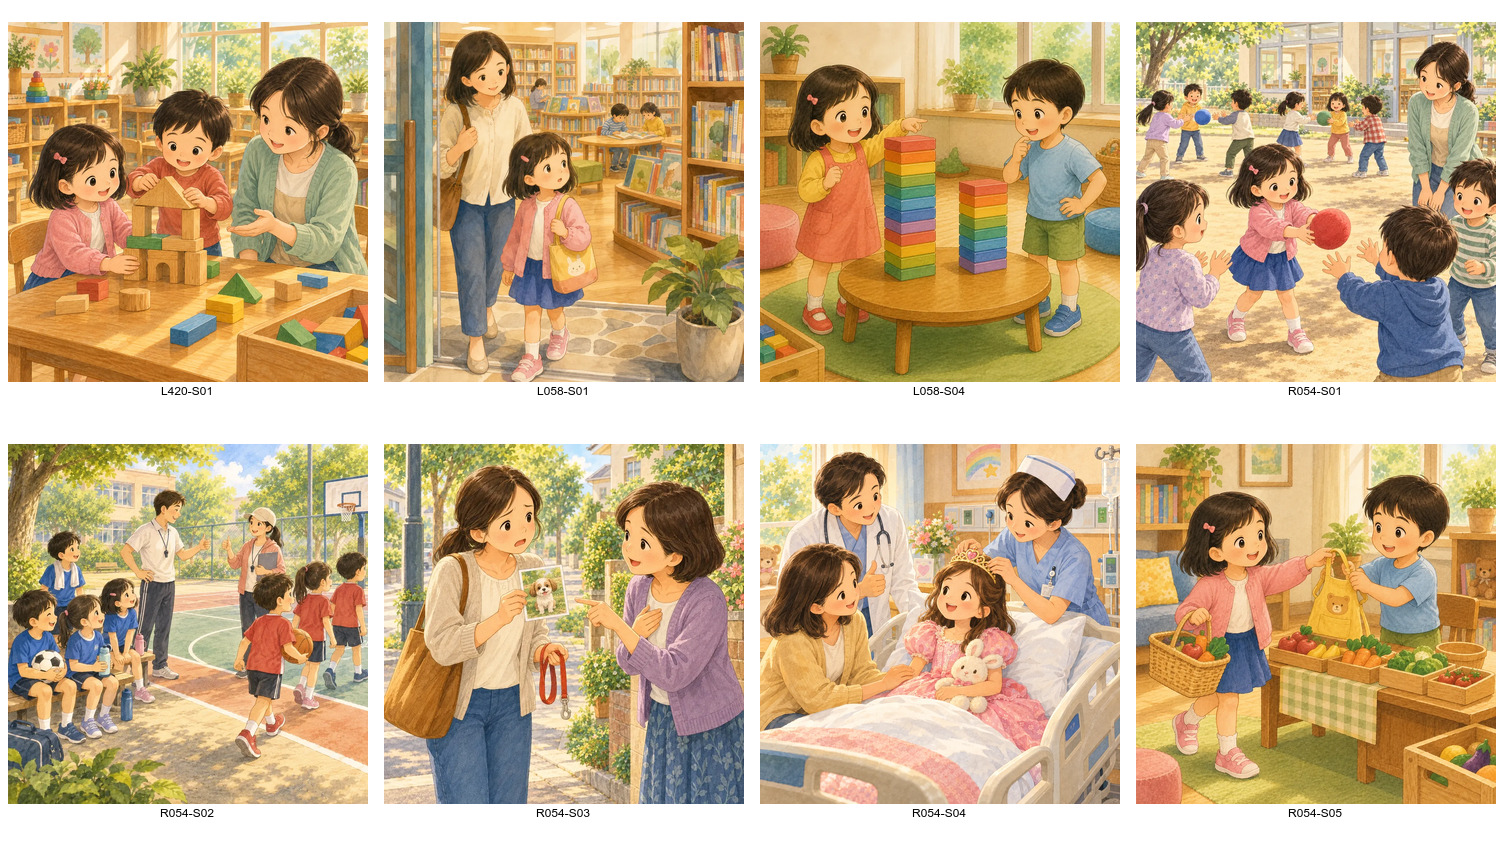
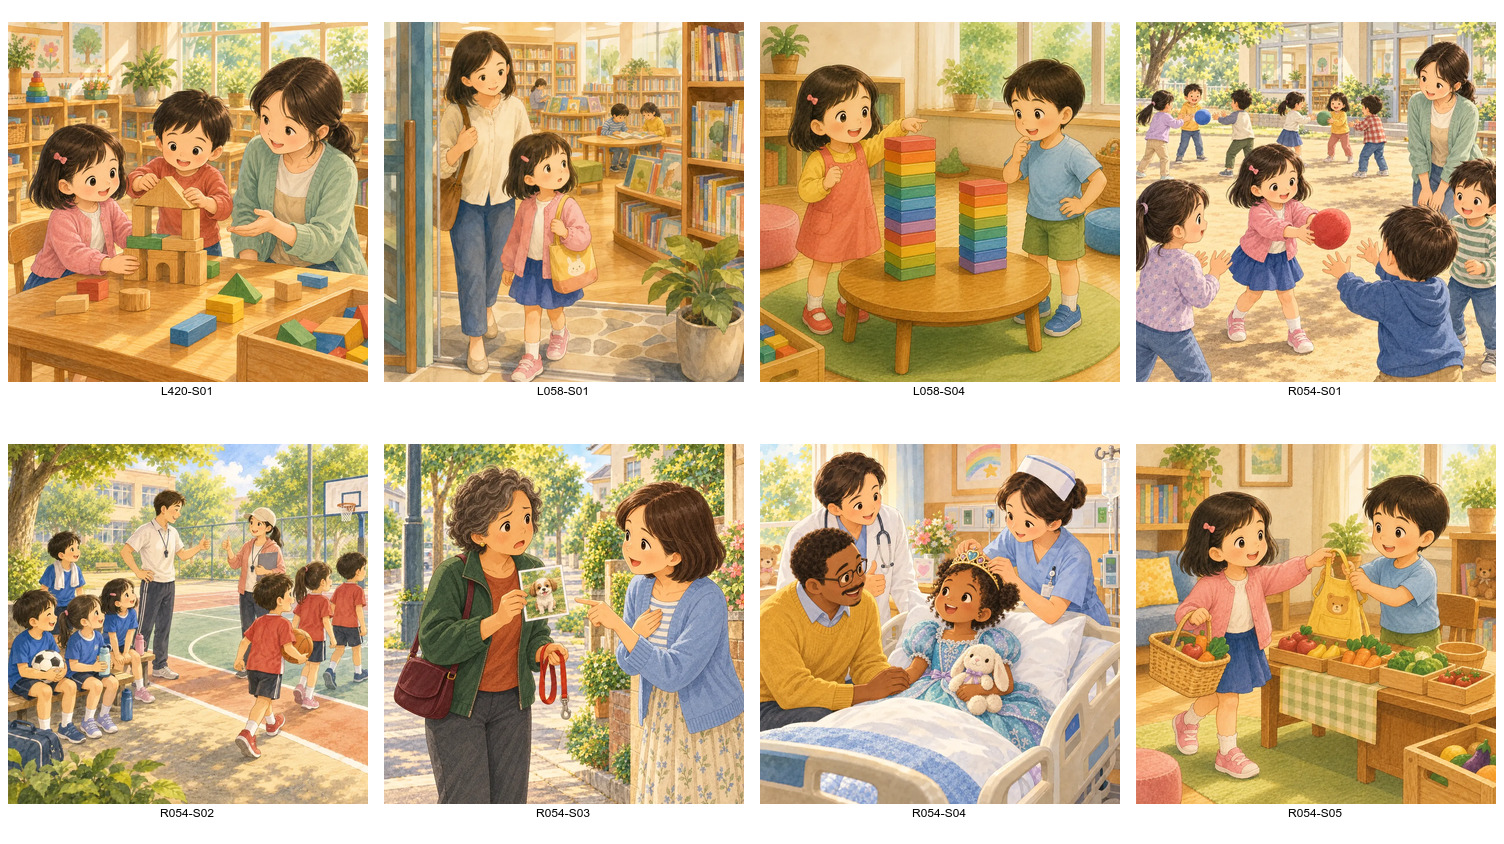
Revise R054 generic character identities

Changed region(s): [[0.25, 0.5237, 0.7188, 0.955]]

diff --git a/docs/PARALLEL_LESSON_REGISTRY.md b/docs/PARALLEL_LESSON_REGISTRY.md
@@ -17,7 +17,7 @@ When the teacher wants to prepare 2-3 lessons or review modules at the same time
 | Unit | New Character(s) / Kind | Status | Owner / Thread | Branch / Commit | Depends On | Provisional Learned Chars | Request / Packet | Assets | Notes |
 |---|---|---|---|---|---|---|---|---|---|
 | R053 | review | asset-complete-package | Production F / parallel-f | codex/r053-r054-complete-package | L435 (merged); pair R054 | None | curriculum-workflow/review-requests/R053.json; curriculum-workflow/generated/R053-generation-packet.md; curriculum-workflow/drafts/R053-draft.json | public/assets/reviews/R053/; curriculum-workflow/audio-inbox/R053/ | Normal milestone pair after L435; coverage L406-L435; allowed ceiling locked to 439 chars at 72b61a61. 5 WebP +9 M4A, sentence/G02 timings and technical/mobile QA complete. Release integrates R053 then R054 before L436. |
-| R054 | review | asset-complete-package | Production F / parallel-f | codex/r053-r054-complete-package | L435 (merged); pair R053 | None | curriculum-workflow/review-requests/R054.json; curriculum-workflow/generated/R054-generation-packet.md; curriculum-workflow/drafts/R054-draft.json | public/assets/reviews/R054/; curriculum-workflow/audio-inbox/R054/ | Normal milestone pair after L435; coverage L406-L435; allowed ceiling locked to 439 chars at 72b61a61. R054-S04 exact 13 Han teacher-approved exception retained and mobile checked. 5 WebP +9 M4A, sentence/G02 timings and technical/mobile QA complete. |
+| R054 | review | asset-complete-package | Production F / parallel-f | codex/r053-r054-complete-package | L435 (merged); pair R053 | None | curriculum-workflow/review-requests/R054.json; curriculum-workflow/generated/R054-generation-packet.md; curriculum-workflow/drafts/R054-draft.json | public/assets/reviews/R054/; curriculum-workflow/audio-inbox/R054/ | Normal milestone pair after L435; coverage L406-L435; allowed ceiling locked to 439 chars at 72b61a61. R054-S04 exact 13 Han teacher-approved exception retained and mobile checked. Teacher-requested S03 owner palette and S04 patient/family identity redraw complete; recurring mother/protagonist resemblance removed. 5 WebP +9 M4A, sentence/G02 timings and technical/mobile QA complete. |
 
 ## Status Values
 
